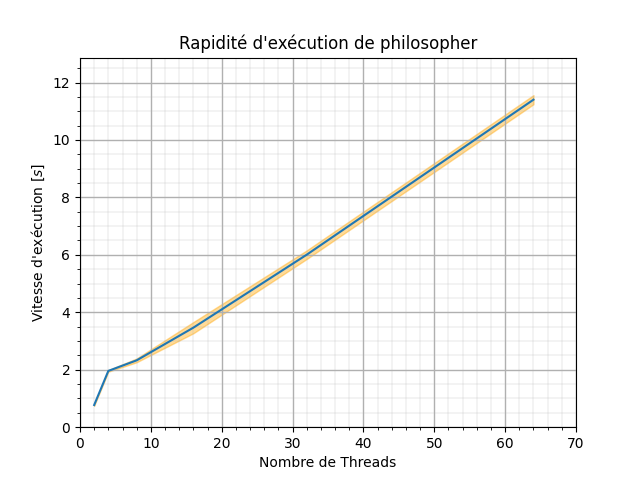
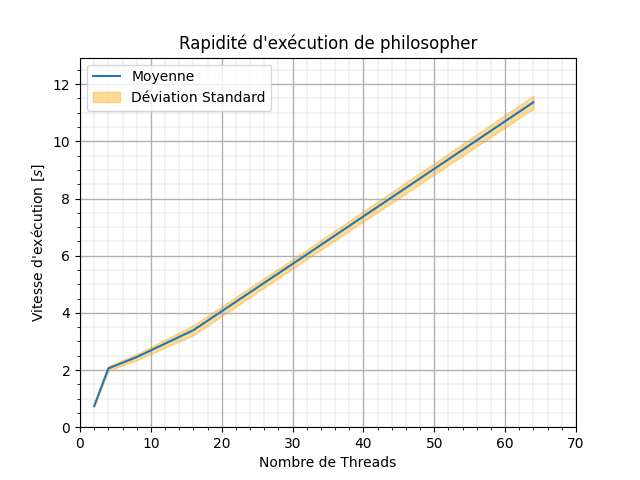
Test and Set

diff --git a/Inginious/P1/src/test-and-set.c b/Inginious/P1/src/test-and-set.c
@@ -1,8 +1,11 @@
 #include <stdio.h>
+#include <stdlib.h>
+#include <pthread.h>
 
 int L = 0;
+int NTHREADS;
 
-void lock(){
+void* lock(){
     asm(
         "enter:\n\t"
         "movl $1, %%eax\n\t"
@@ -11,11 +14,59 @@ void lock(){
         "jnz enter\n\t"
         :"+m"(L)
     );
+
+    return NULL;
 }
 
+void* unlock(){
+    asm(
+        "movl $0, %%eax\n\t"
+        "xchgl %%eax, %0\n\t"
+        :"+m"(L)
+    );
+    return NULL;
+}
+
+void* myFunc(void* arg){
 
 
-int main(int arc, char** argv){
-    printf("Hello\n");
-    lock();
+    for(int j = 0; j < 6400/NTHREADS; j++){
+        lock();
+        for(int a = 0; a <10000; a++){
+            // DO
+        }
+        unlock();
+
+    }
+    return NULL;
+}
+
+void start(int NTHREADS){
+    pthread_t* phil = (pthread_t*) malloc(sizeof(pthread_t)*NTHREADS);
+
+    int* ID;
+    
+    for(int i = 0; i < NTHREADS; i++){
+        ID = malloc(sizeof(int));
+        *ID = i;
+
+        if (pthread_create(&(phil[i]), NULL, myFunc, (void*) ID) != 0){
+            printf("Issue with thread %d\n", i);
+            return;
+        }
+    }
+
+    for (int i = 0; i < NTHREADS; i++) {
+        pthread_join(phil[i], NULL);
+    }
+}
+
+int main(int argc, char** argv){
+    if(argc != 2){
+        printf("Please provide the amount of philosopher you want\n");
+        return EXIT_FAILURE;
+    }
+    NTHREADS = (int)  atoi(argv[1]);
+    start((int)  atoi(argv[1]));
+    return EXIT_SUCCESS;
 }

diff --git a/Inginious/P1/perf/plot.py b/Inginious/P1/perf/plot.py
@@ -32,8 +32,8 @@ for f in os.listdir("perf/data"):
             
             standard[i] = (data[col].to_numpy()/(1000**track)).std()
             
-        ax.plot(t, av/(1000**track))
-        ax.fill_between(t, av/(1000**track) - standard, av/(1000**track) + standard, alpha=0.4, color="orange")
+        ax.plot(t, av/(1000**track), label="Moyenne")
+        ax.fill_between(t, av/(1000**track) - standard, av/(1000**track) + standard, alpha=0.4, color="orange", label="Déviation Standard")
         
         ax.set_title(f"Rapidité d'exécution de {f.split(".")[0]}")
         ax.set_xlabel("Nombre de Threads")
@@ -45,6 +45,8 @@ for f in os.listdir("perf/data"):
         ax.minorticks_on()
         ax.grid(which = "major", linewidth = 1)
         ax.grid(which = "minor", linewidth = 0.2)
+        
+        ax.legend()
                 
         fig.savefig(f"perf/plot/{f.split(".")[0]}_plot.png")
         data.plot()

diff --git a/Inginious/P1/src/test.c b/Inginious/P1/src/test.c
@@ -1,0 +1,18 @@
+#include <stdio.h>
+
+int A = 0;
+
+void* inc(){
+    asm(
+        "addl $1, %0\n\t"
+        :"+m"(A)
+    );
+    printf("Valeur de A %d\n", A);
+}
+
+
+int main(int argc, char** argv){
+    for(int i = 0; i < 10; i++){
+        inc();
+    }
+}
